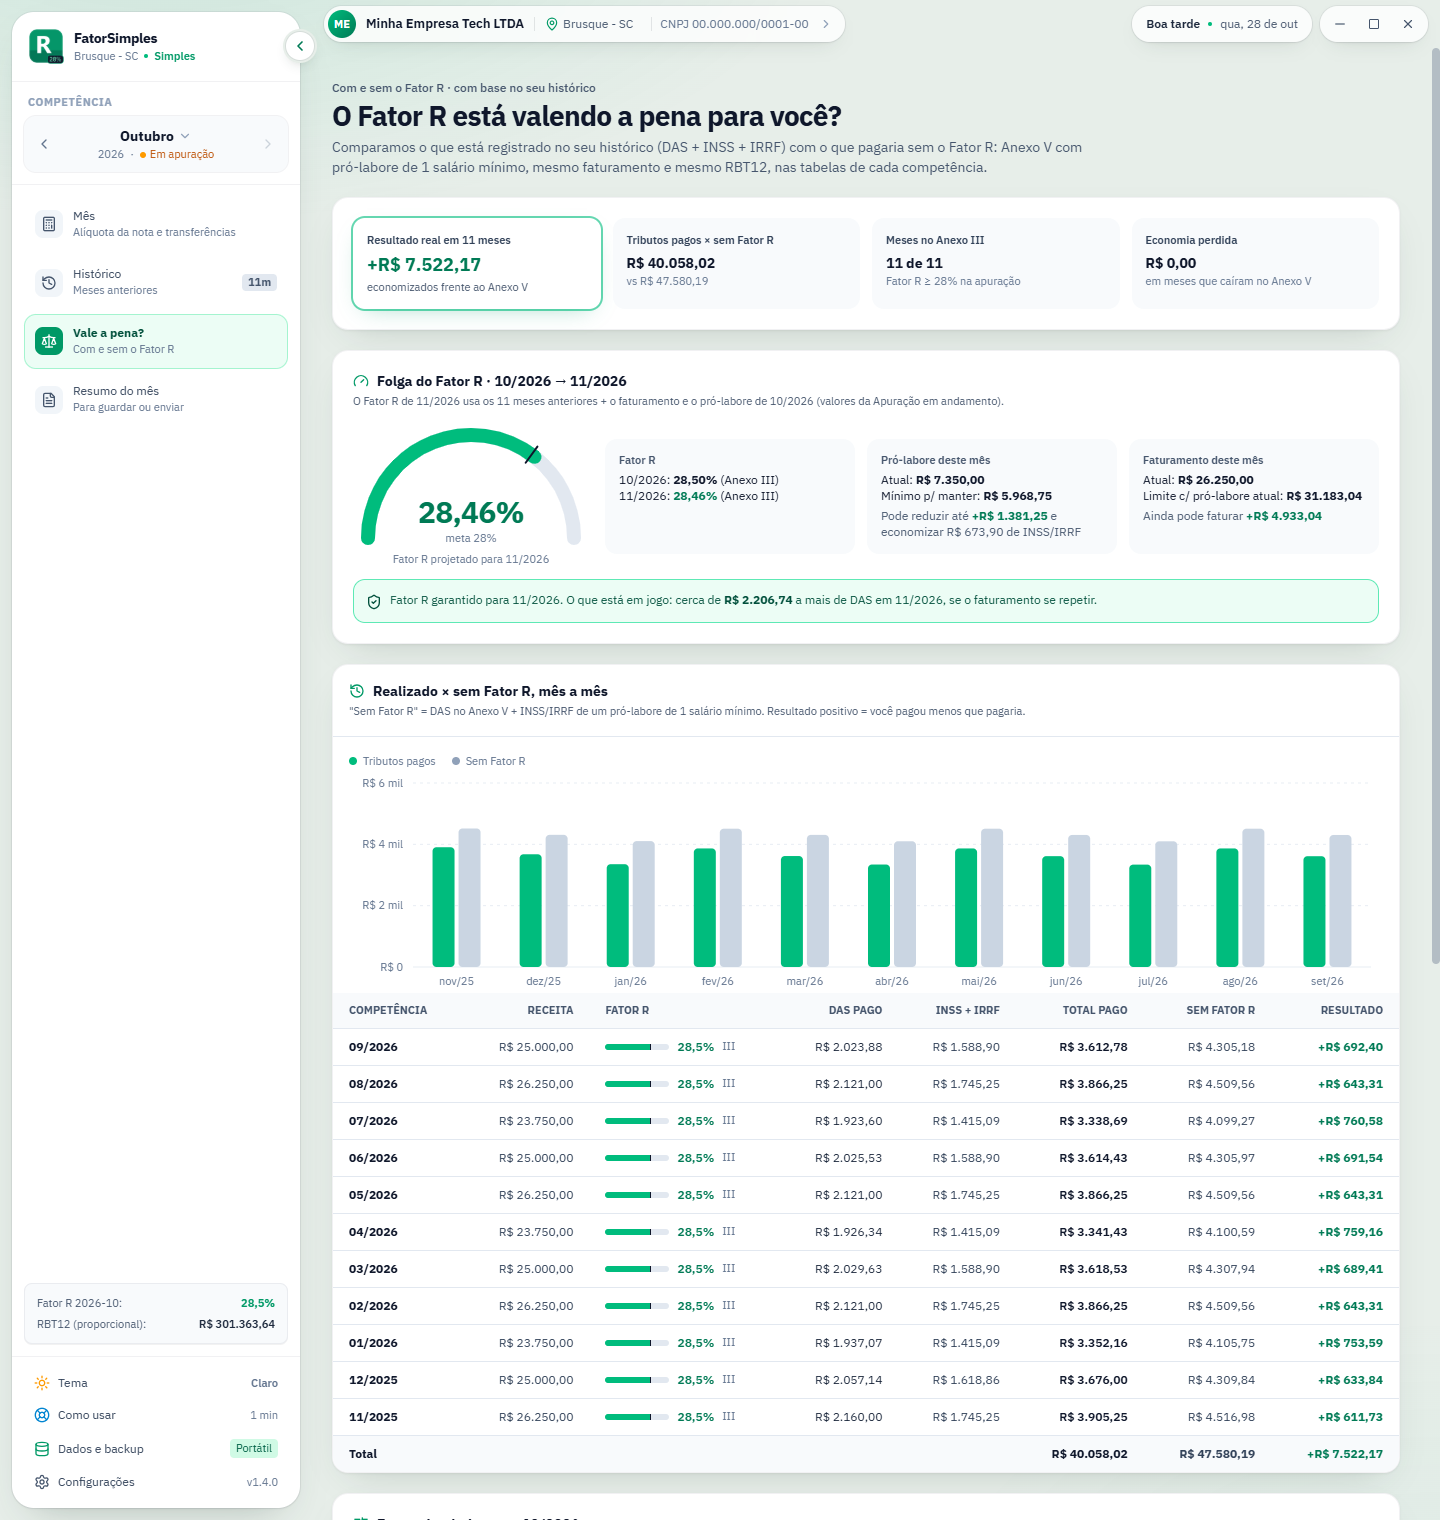
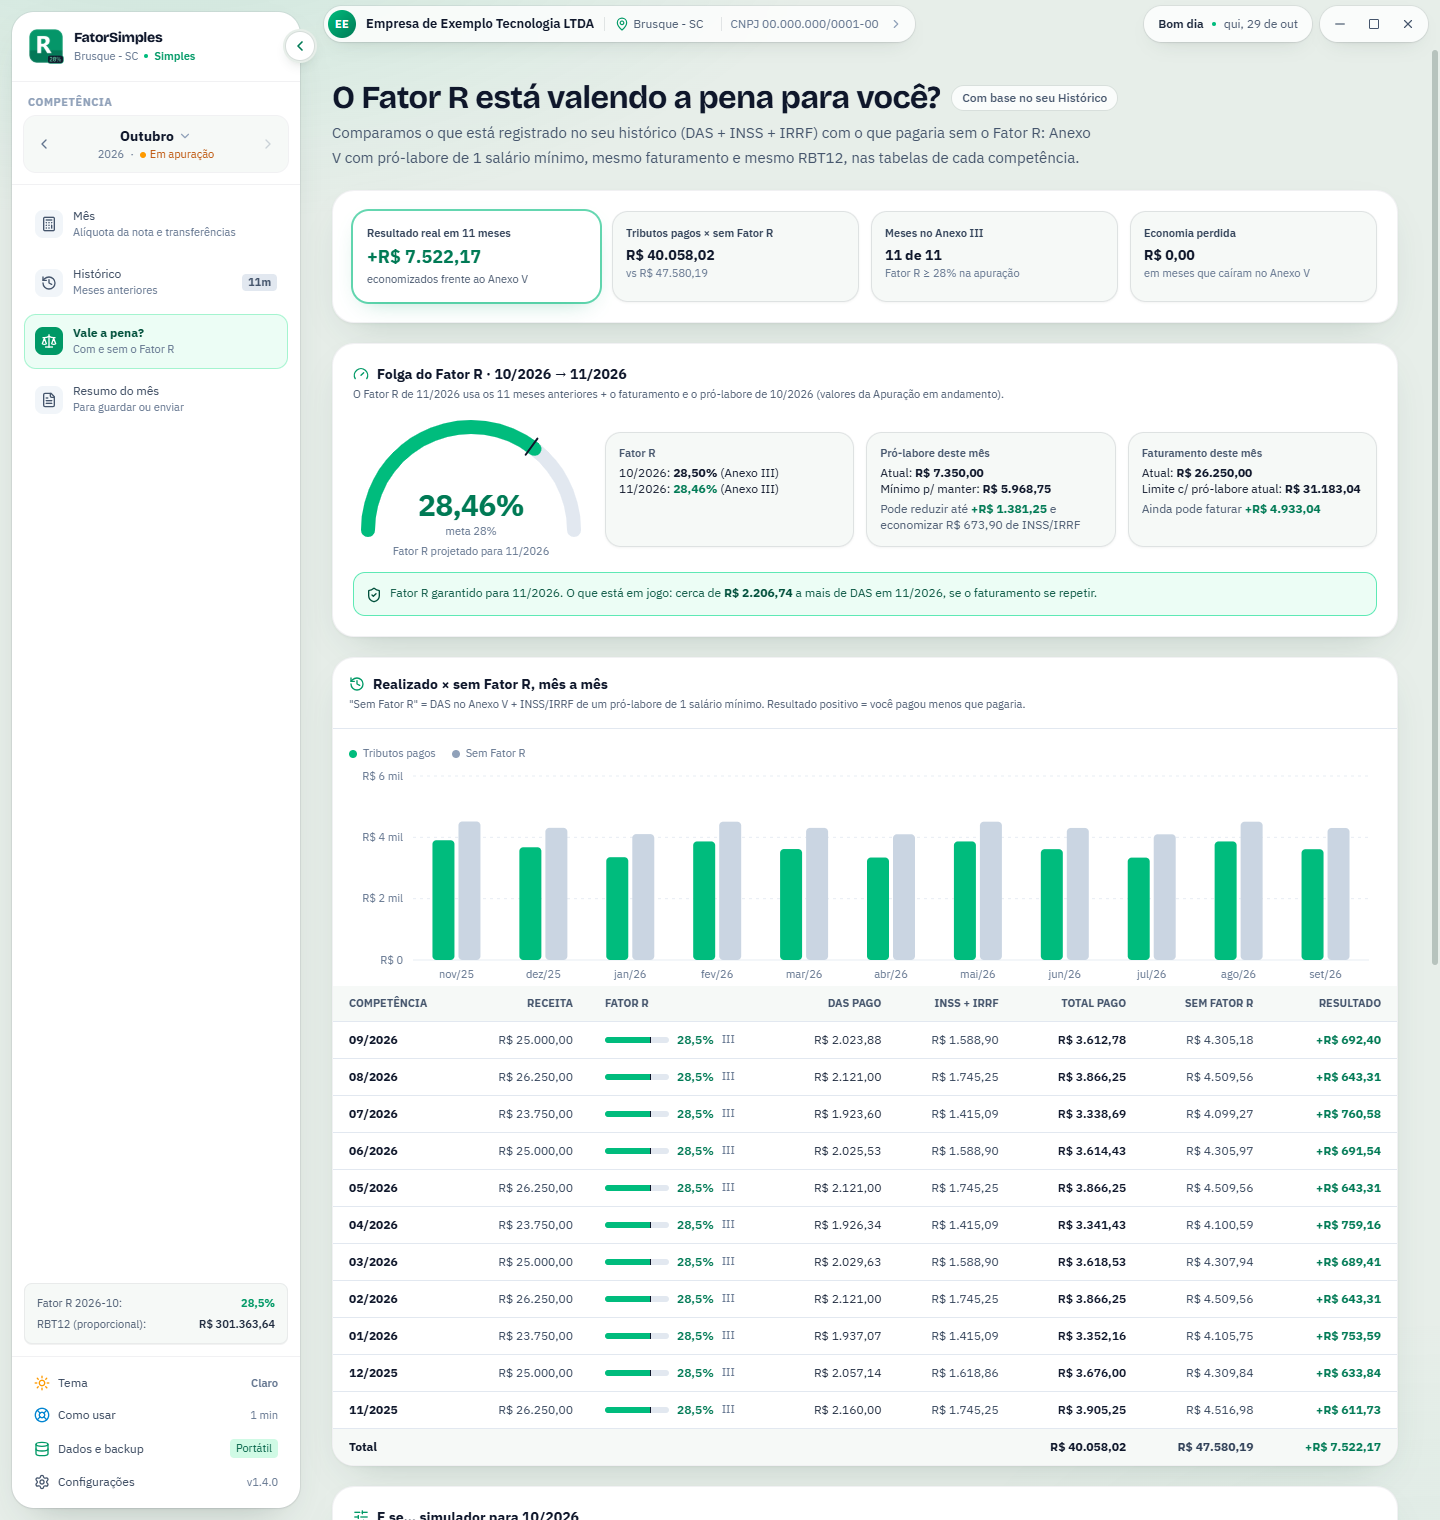
docs: capturas e demonstração com o visual novo, tela inicial, Configurações e Dados e backup

diff --git a/README.md b/README.md
@@ -109,7 +109,9 @@ Na prática, isso vira uma conta que precisa ser feita todo mês: qual alíquota
 <td valign="top">
 
 ### 🎨 Interface
-- Tema **claro** por padrão e **escuro** a um clique, com a troca animada a partir do botão
+- Tema **claro** por padrão e **escuro** (tom petróleo) a um clique no menu ou em **Configurações → Aparência e sons**, com a troca animada a partir do botão
+- **Configurações** em seções com menu lateral: **Empresa**, **Pró-labore** (regra com que cada mês começa e dependentes do IR), **Tabelas fiscais** e **Aparência e sons**
+- Seletor de competência com a grade de meses e, ao clicar no ano, a **grade de anos**, com um ponto nos meses e anos já salvos
 - Menu lateral recolhível pelo botão redondo na borda, e que lembra a sua escolha
 - Animações suaves e sons sutis (ligados por padrão), que podem ser desligados nas Configurações
 - Barra de título própria, com os dados da empresa a um clique e os botões de minimizar, maximizar e fechar no visual do app
@@ -132,6 +134,11 @@ Na prática, isso vira uma conta que precisa ser feita todo mês: qual alíquota
 <img src="docs/screenshots/comparador.png" alt="Vale a pena?" width="100%" />
 <sub><b>Vale a pena?:</b> economia real com o Fator R, folga do mês e o realizado mês a mês</sub>
 
+<br /><br />
+
+<img src="docs/screenshots/tela-inicial.png" alt="Tela inicial: explorar com um exemplo, cadastrar a empresa ou importar a declaração do PGDAS-D" width="100%" />
+<sub><b>Tela inicial:</b> na primeira abertura, um exemplo, o cadastro em etapas ou a importação da declaração do PGDAS-D</sub>
+
 </div>
 
 <details>
@@ -145,6 +152,8 @@ Na prática, isso vira uma conta que precisa ser feita todo mês: qual alíquota
 | <img src="docs/screenshots/historico.png" alt="Histórico" /> | <img src="docs/screenshots/relatorio.png" alt="Resumo do mês" /> |
 | **Tema escuro** | **Tutorial guiado** |
 | <img src="docs/screenshots/apuracao-escuro.png" alt="Tema escuro" /> | <img src="docs/screenshots/tutorial.png" alt="Tutorial guiado" /> |
+| **Configurações** | **Dados e backup** |
+| <img src="docs/screenshots/configuracoes.png" alt="Configurações: pró-labore" /> | <img src="docs/screenshots/dados.png" alt="Dados e backup" /> |
 
 </details>
 
@@ -244,7 +253,7 @@ Baixe o arquivo do seu sistema em [**Releases**](https://github.com/leandrotsamp
 1. Coloque o `.exe` numa pasta sua, por exemplo `Documentos\FatorSimples`, e abra
 2. Para atualizar, troque só o `.exe` e mantenha o `fatorsimples.sqlite` ao lado
 
-**Do portátil para o instalador.** Com o app fechado, copie o `fatorsimples.sqlite` da pasta do portátil para `%APPDATA%\FatorSimples` (cole o endereço na barra do Explorador de Arquivos). Outra forma é usar **Dados e backup → Exportar Dados** no portátil e **Importar Dados** no instalado.
+**Do portátil para o instalador.** Com o app fechado, copie o `fatorsimples.sqlite` da pasta do portátil para `%APPDATA%\FatorSimples` (cole o endereço na barra do Explorador de Arquivos). Outra forma é usar **Dados e backup → Exportar os meses** no portátil e **Importar de um .json** no instalado.
 
 O SmartScreen pode avisar na primeira execução, porque o executável não tem assinatura de código comercial. Clique em **Mais informações → Executar assim mesmo**.
 
@@ -280,7 +289,7 @@ chmod +x FatorSimples-*.AppImage
 
 </details>
 
-Para fazer backup, copie o `fatorsimples.sqlite`. O menu **Dados e backup** do app mostra onde ele está e abre a pasta.
+Para fazer backup, copie o `fatorsimples.sqlite`. O menu **Dados e backup** do app mostra onde ele está, copia o caminho e abre a pasta.
 
 ## 💾 Seus dados
 
@@ -304,7 +313,7 @@ Tudo fica num único arquivo SQLite, o `fatorsimples.sqlite` (veja onde na tabel
 
 ### Pelos PDFs da Receita (recomendado)
 
-Em **Histórico → Importar PGDAS-D** (ou na tela inicial), arraste os PDFs. Dá para trazer os dois juntos ou um de cada vez. Os arquivos são lidos só no seu computador, e o app guarda os valores de cada mês, nunca o PDF.
+Em **Histórico → Importar PGDAS-D** (ou em **Dados e backup**, ou na tela inicial), arraste os PDFs. Dá para trazer os dois juntos ou um de cada vez. Os arquivos são lidos só no seu computador, e o app guarda os valores de cada mês, nunca o PDF.
 
 | Documento | Onde conseguir | O que o app tira dele |
 |---|---|---|
@@ -324,7 +333,7 @@ Por enquanto o app lê o modelo de declaração gerado pelo PGDAS-D e o relatór
 
 ### Por um arquivo JSON
 
-Pelo menu **Dados e backup → Importar Dados**, o app aceita um JSON no formato abaixo (o mesmo do **Exportar Dados**). As competências são mescladas por mês, e o resumo mostra o que será incluído ou substituído antes de gravar. INSS, IRRF e DAS zerados são calculados na importação.
+Pelo menu **Dados e backup → Importar de um .json**, o app aceita um JSON no formato abaixo (o mesmo do **Exportar os meses**). As competências são mescladas por mês, e o resumo mostra o que será incluído ou substituído antes de gravar. INSS, IRRF e DAS zerados são calculados na importação.
 
 ```json
 {
